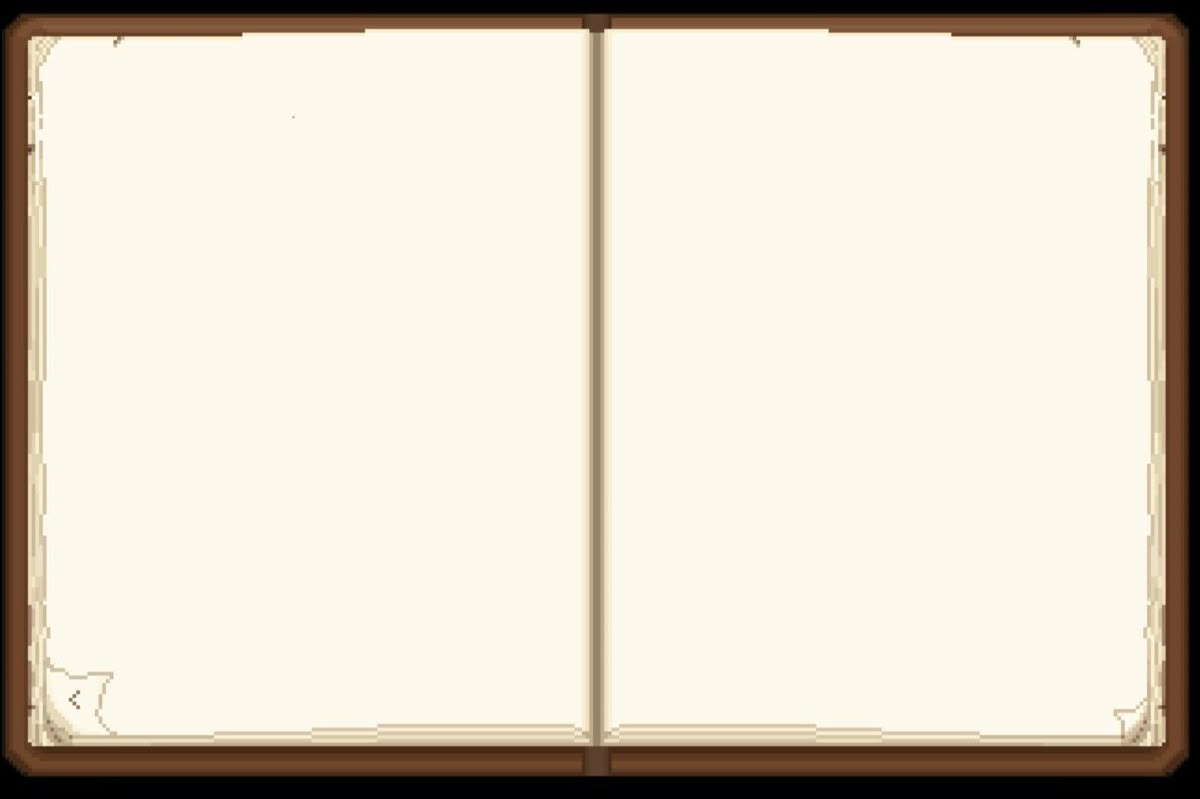
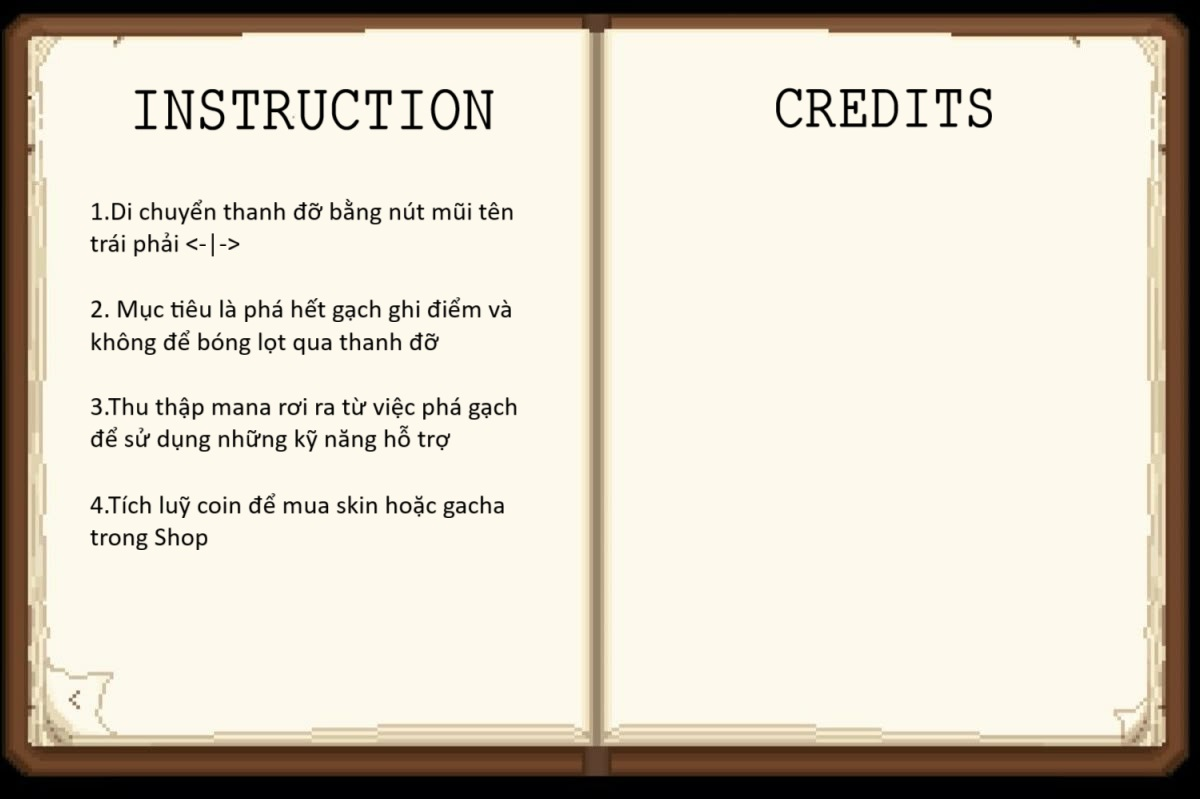
add level preview img

diff --git a/src/ui/scene/InstructionScene.java b/src/ui/scene/InstructionScene.java
@@ -1,20 +1,18 @@
 package ui.scene;
 
 import core.InputHandler;
+import core.ResourceLoader;
 import core.SceneManager;
-import ui.base.AnchorType;
 import ui.base.Scene;
-import ui.element.Label;
 import utils.Constants;
 
 import java.awt.*;
-import java.util.ArrayList;
-import java.util.List;
+import java.awt.image.BufferedImage;
 
 public class InstructionScene extends Scene {
 
     private final SceneManager sceneManager;
-    private final List<Label> componentsToDraw = new ArrayList<>(); // Dùng List để quản lý các Labels
+    private BufferedImage background;
 
     public InstructionScene(InputHandler input, SceneManager sceneManager) {
         super("InstructionScene", input);
@@ -24,45 +22,7 @@ public class InstructionScene extends Scene {
 
     @Override
     public void initUI() {
-        setBackground(Color.DARK_GRAY);
-        setLayout(null);
-
-        // --- 1. TIÊU ĐỀ ---
-        Label title = new Label(
-                "CÁCH CHƠI (INSTRUCTIONS)",
-                Constants.WINDOW_WIDTH/ 2,
-                50,
-                new Font("Serif", Font.BOLD, 40),
-                AnchorType.CENTER_TOP
-        );
-        componentsToDraw.add(title); // <-- THÊM VÀO LIST
-
-        // --- 2. NỘI DUNG HƯỚNG DẪN ---
-        Font contentFont = new Font("Monospaced", Font.PLAIN, 18);
-        Color textColor = Color.WHITE;
-        int startY = 150;
-        int lineHeight = 30;
-
-        String[] instructions = {
-                "1. Di chuyển thanh đỡ (Paddle) bằng phím mũi tên LEFT/RIGHT.",
-                "2. Mục tiêu là không để bóng (Ball) lọt qua phía sau thanh đỡ.",
-                "3. 6",
-                "4. Chạm bóng vào gạch để phá vỡ chúng và ghi điểm.",
-                "5. Sử dụng tiền (Coins) để mở khóa Skin mới trong Shop.",
-                "",
-                "NHẤN PHÍM ESC HOẶC ENTER ĐỂ TIẾP TỤC"
-        };
-
-        for (int i = 0; i < instructions.length; i++) {
-            Label line = new Label(
-                    instructions[i],
-                    Constants.WINDOW_WIDTH / 2,
-                    startY + i * lineHeight,
-                    contentFont,
-                    AnchorType.CENTER_TOP
-            );
-            componentsToDraw.add(line); // <-- THÊM VÀO LIST
-        }
+        background = ResourceLoader.loadImage("assets/images/Bg/book.jpg");
     }
 
     @Override
@@ -75,13 +35,6 @@ public class InstructionScene extends Scene {
 
     @Override
     public void render(Graphics2D g2) {
-        // VẼ BACKGROUND MÀU ĐƠN SẮC
-        g2.setColor(getBackground());
-        g2.fillRect(0, 0, getWidth(), getHeight());
-
-        // VẼ TẤT CẢ COMPONENTS MỘT CÁCH THỦ CÔNG
-        for (Label label : componentsToDraw) {
-            label.draw(g2);
-        }
+        g2.drawImage(background,0,0,getWidth(),getHeight(),null);
     }
 }

diff --git a/src/ui/panel/GamePanel.java b/src/ui/panel/GamePanel.java
@@ -14,7 +14,7 @@ public class GamePanel extends JPanel {
 
     public GamePanel(GameWorld world) {
         this.world = world;
-        background = ResourceLoader.loadImage("assets/images/Bg/scene1.png"); // scene 2/3 theo level
+        background = ResourceLoader.loadImage("assets/images/Bg/scene3.png"); // scene 2/3 theo level
     }
 
     @Override
